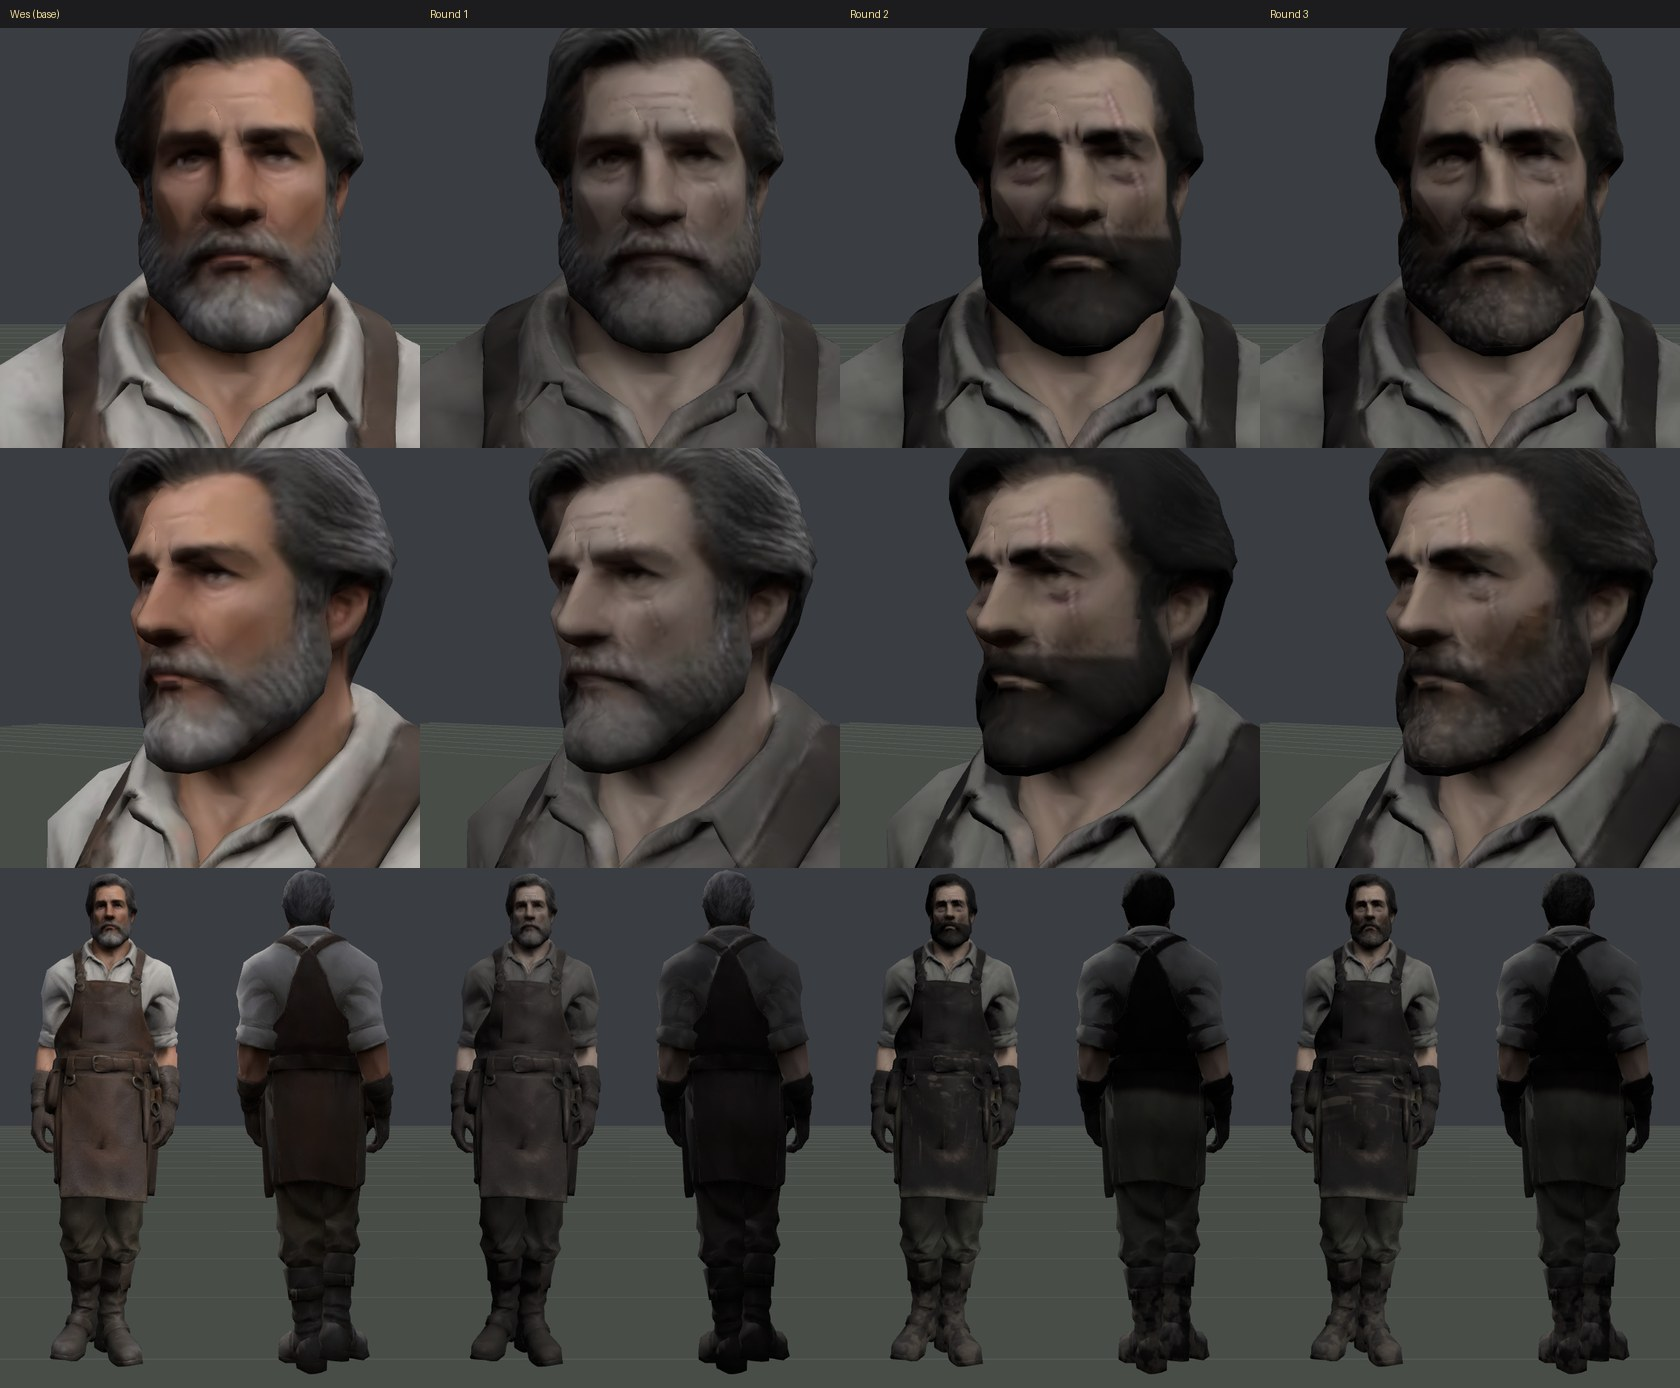
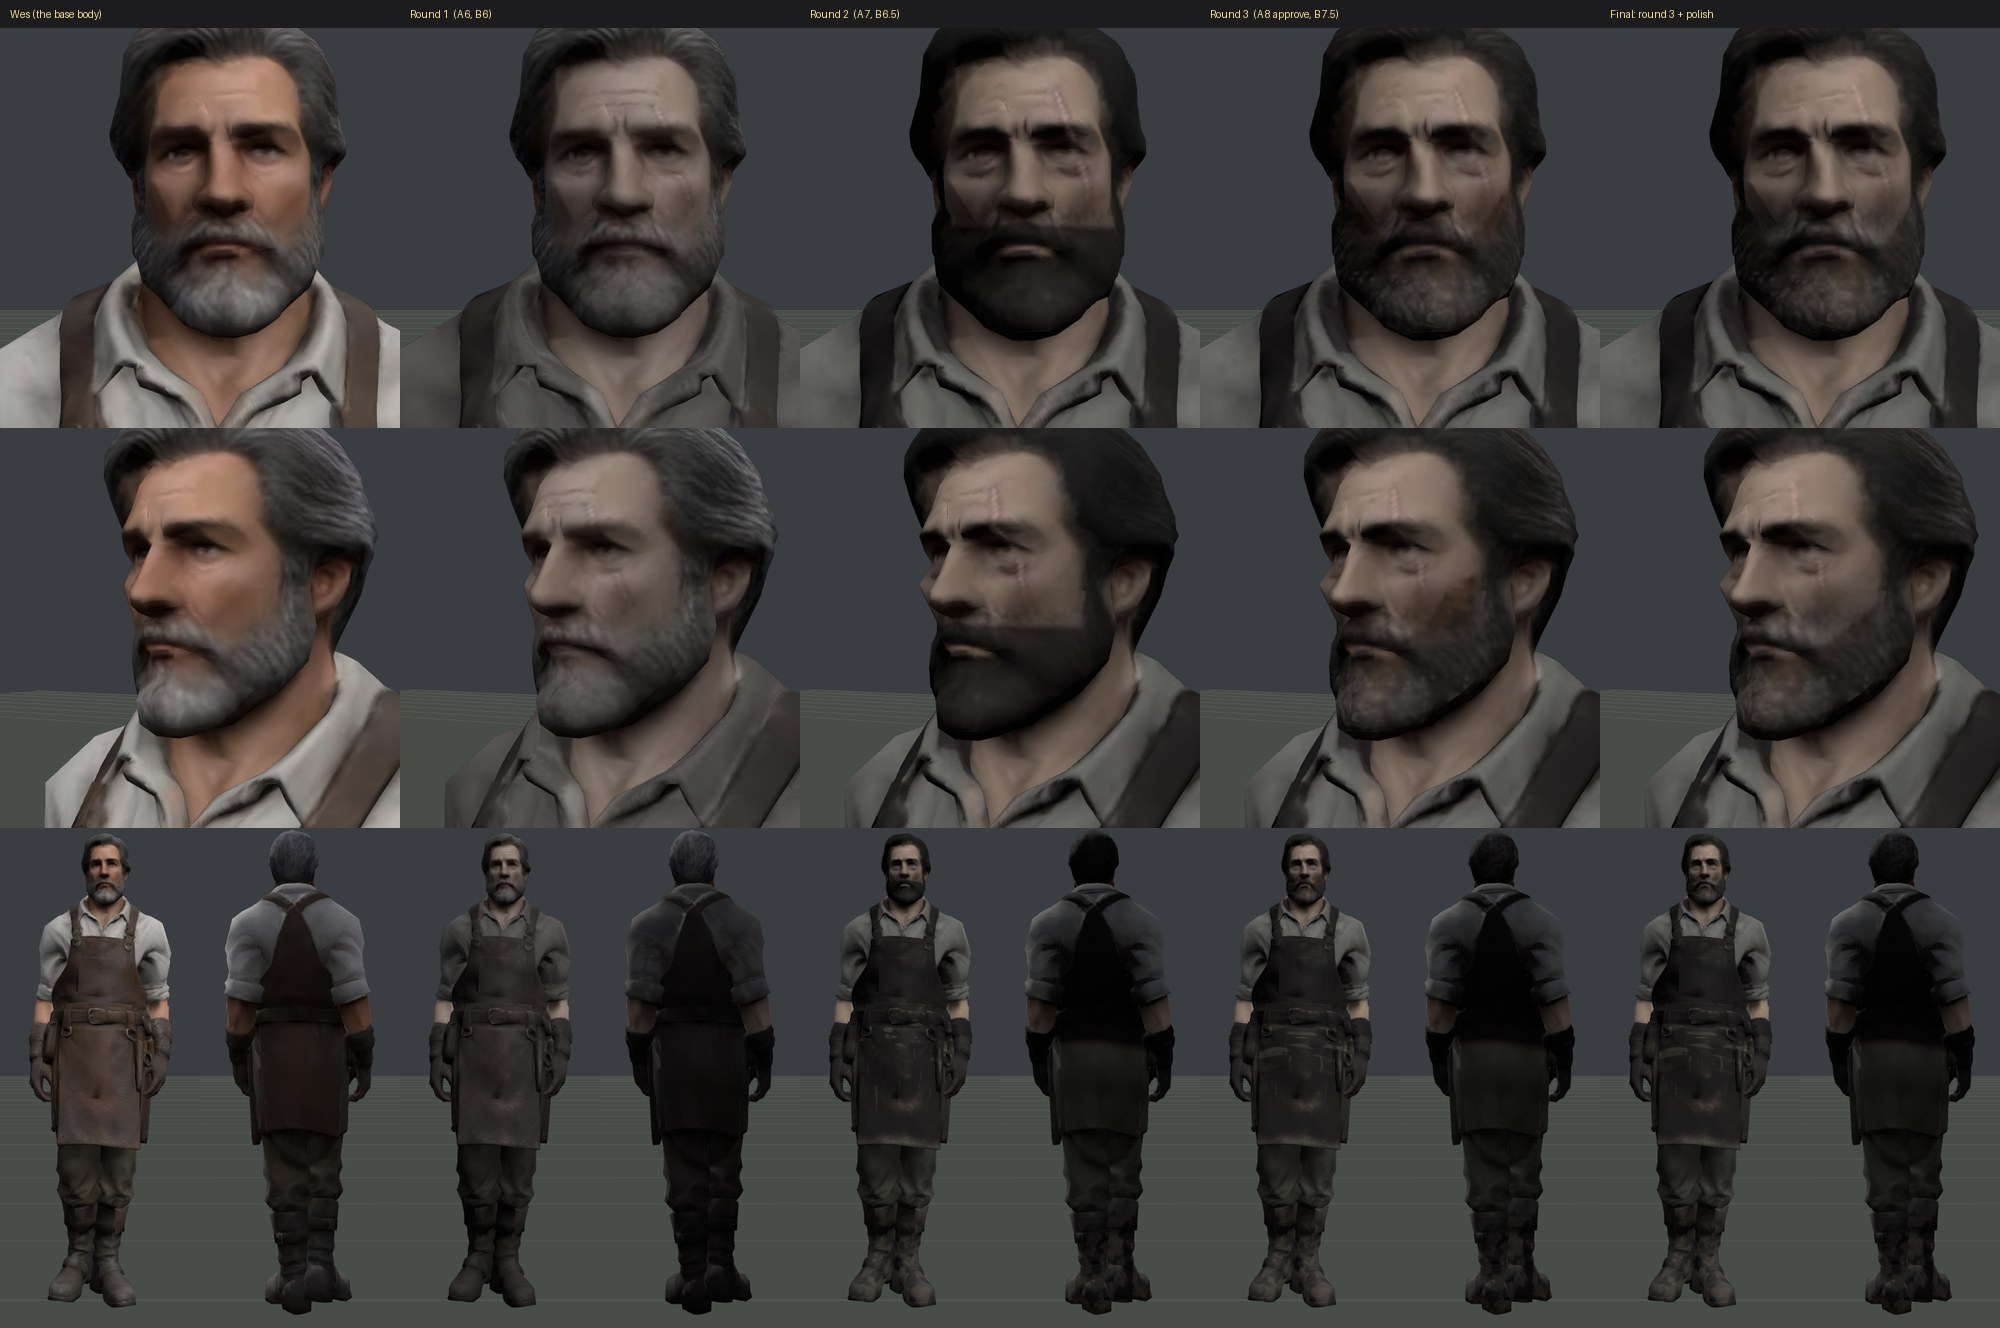
ph_tallow: the polish both critics asked for after round 3, and the tool written up
The cheek skin the beard line had taken painted as skin again (it was the rust-brown wedge);
the skin at the beard's edge greyed; the face marks' gates softened (their edges showed as
facets); the scar's rim faded in at its start. The sculpt gives every copy of a split vertex
one move (seams had opened) and unfolds flaps rather than closing them (closing left a hole).

Claude-Session: https://claude.ai/code/session_01YbmsD1HnEwDUrWv5TvmHtv

diff --git a/tools/phobos/grim_skin.py b/tools/phobos/grim_skin.py
@@ -26,7 +26,7 @@ nearest chart's point), and everything is a function of that point:
 `sculpt` in a skin moves the face itself: each move a soft blob in the front view (brow ridge forward and down,
 cheekbones out, cheeks in, the nose broken to one side, the jaw longer and wider), on the head bone's own skin only.
 It writes assets/game/folk/<id>.glb, the base body with those points moved and their normals turned to match (and
-any triangle folded over on the head closed); the
+any triangle folded over on the head unfolded); the
 skeleton, weights and UVs are the base's, so the rig, the clips, the normal and occlusion maps and the town's thread
 (which poses by the base's glb) all still fit. The swap names it as `glb`, and src/gfx/folk.js draws it in place of the
 base's mesh.
@@ -204,6 +204,10 @@ def blob(x, y, c, r, power=2):
     return np.exp(-(((x - c[0]) / r[0]) ** 2 + ((y - c[1]) / r[1]) ** 2) ** (power / 2))
 
 
+def stub_zone(x, y, F):
+    return smooth(-y, -(F["nose_y"] + 0.004), -(F["nose_y"] - 0.008)) * smooth(np.abs(x - F["mid"]), 0.022, 0.032)
+
+
 def eye_gate(x, y, F, rx=0.0135, ry=0.0062):
     """1 everywhere but on the eyes themselves (the lids and the eyeball), where marks must not go."""
     return (1 - blob(x, y, F["eye_r"], (rx, ry), 4)) * (1 - blob(x, y, F["eye_l"], (rx, ry), 4))
@@ -214,7 +218,8 @@ def face_marks(pos, nrm, hd, F, k):
     fold the normal map is to be cut with, for the lines that are folds rather than shading)."""
     x, y, z = pos[..., 0], pos[..., 1], pos[..., 2]
     cx = F["mid"]
-    front = smooth(nrm[..., 2], 0.05, 0.45) * smooth(hd, 0.3, 0.7) * smooth(z, F["front_z"] - 0.02, F["front_z"])
+    # (Soft: a narrow gate on depth or facing follows the mesh's triangles, and its edge showed as a hard facet.)
+    front = smooth(nrm[..., 2], -0.25, 0.5) * smooth(hd, 0.3, 0.7) * smooth(z, F["front_z"] - 0.06, F["front_z"] + 0.005)
     dark = np.zeros(x.shape); light = np.zeros(x.shape); brows = np.zeros(x.shape); crease = np.zeros(x.shape)
     for ex, ey in (F["eye_r"], F["eye_l"]):
         out = 1 if ex > cx else -1                       # +1: this eye's outer side is +x
@@ -284,7 +289,9 @@ def face_marks(pos, nrm, hd, F, k):
         sw = F.get("scar_w", 0.003)
         core = line(x, y, piece, sw) * eg
         scar = np.maximum(scar, core)
-        rim = np.clip(line(x, y, piece, sw * 1.7) * eg - core, 0, 1)
+        # (The rim fades in over the first stretch of the stroke: where the core tapers to its start, a rim either side
+        # of it read as two strokes.)
+        rim = np.clip(line(x, y, piece, sw * 1.7) * eg - core, 0, 1) * smooth(poly_dist(x, y, piece)[1], 0.08, 0.3)
         dark += rim * k["scar_rim"]
         # Where it crosses the brow it is a gap in the hair, wider than the scar, and the scar itself faint there, so
         # brow and scar never make a cross.
@@ -324,9 +331,49 @@ def sculpt(src, dst, F, moves, tex):
             if "z" in mv:                                # only the surface near this depth (a nose, not the cheek behind it)
                 w = w * np.exp(-((z - mv["z"]) / mv.get("zr", 0.02)) ** 2)
             d += w[:, None] * np.array([o * mv["d"][0], mv["d"][1], mv["d"][2]])
-    Q = P + d
-    # Normals: each vertex's own, turned by however much its welded neighbourhood's area-weighted normal turned.
+    # Every copy of a point (the atlas splits a vertex at each UV seam, and the copies differ in normal and colour, so in
+    # the gate) takes the copies' mean move, or the seams would open.
     key = np.unique(np.round(P / 1e-5).astype(np.int64), axis=0, return_inverse=True)[1].ravel()
+    acc = np.zeros((key.max() + 1, 3)); cnt = np.zeros(key.max() + 1)
+    np.add.at(acc, key, d); np.add.at(cnt, key, 1)
+    d = acc[key] / cnt[key, None]
+    Q = P + d
+    # Flaps: a triangle on the head turned against the surface round it (Tripo leaves the odd one folded over, and as
+    # the game draws people two-sided it shows as a dark nick: Wes's "scar" on his right brow was one). Each is
+    # unfolded: its corners drawn toward the mean of their neighbours till it faces the way the surface does. (Not
+    # deleted: that opens a hole, tools/phobos/README.md.)
+    from scipy.spatial import cKDTree
+    nbr = [set() for _ in range(key.max() + 1)]
+    for t in I:
+        ka, kb, kc = key[t]
+        nbr[ka].update((kb, kc)); nbr[kb].update((ka, kc)); nbr[kc].update((ka, kb))
+    kpos = np.zeros((key.max() + 1, 3)); kpos[key] = Q
+
+    def facing(t):
+        fc = Q[I].mean(1)
+        fn = np.cross(Q[I[:, 1]] - Q[I[:, 0]], Q[I[:, 2]] - Q[I[:, 0]])
+        return fc, fn
+
+    fc, fn = facing(None)
+    idx = np.nonzero((hw[I].mean(1) > 0.5) & (fc[:, 1] > 1.5))[0]
+    tree = cKDTree(fc[idx])
+    flaps = []
+    for t in idx:
+        near = idx[tree.query_ball_point(fc[t], 0.012)]
+        avg = fn[near].sum(0)
+        if np.dot(fn[t], avg) < -0.3 * np.linalg.norm(fn[t]) * np.linalg.norm(avg):
+            flaps.append((t, avg / np.linalg.norm(avg)))
+    for t, avg in flaps:
+        ks = key[I[t]]
+        for _ in range(200):
+            for k in ks:
+                kpos[k] = kpos[k] * 0.5 + np.mean([kpos[j] for j in nbr[k]], 0) * 0.5
+            a, b_, c = kpos[ks]
+            n_ = np.cross(b_ - a, c - a)
+            if np.dot(n_, avg) > 0.95 * np.linalg.norm(n_):
+                break
+        Q = kpos[key]
+    # Normals: each vertex's own, turned by however much its welded neighbourhood's area-weighted normal turned.
 
     def welded(V):
         fn = np.cross(V[I[:, 1]] - V[I[:, 0]], V[I[:, 2]] - V[I[:, 0]])
@@ -341,31 +388,10 @@ def sculpt(src, dst, F, moves, tex):
     N2[moved] = Nn[moved] + (n1[moved] - n0[moved])
     # (Across the face's front, where the mesh is coarsest, the welded smooth normal itself: the base's per-corner
     # normals shade its few big triangles in hard planes, more so once moved.)
-    sm = (gate * smooth(y, 1.53, 1.56))[:, None]
+    gk = np.zeros(key.max() + 1); np.add.at(gk, key, gate)
+    sm = (gk[key] / cnt[key] * smooth(y, 1.53, 1.56))[:, None]
     N2 = N2 * (1 - sm) + n1 * sm
     N2 /= np.maximum(np.linalg.norm(N2, axis=1, keepdims=True), 1e-9)
-    # Flaps: a triangle on the face turned against the surface round it (Tripo leaves the odd one folded over, and as
-    # the game draws people two-sided it shows as a dark nick: Wes's "scar" on his right brow was one). Each is made
-    # degenerate, all three corners its first, so it draws nothing; the surface under it is whole.
-    fc = Q[I].mean(1)
-    fn = np.cross(Q[I[:, 1]] - Q[I[:, 0]], Q[I[:, 2]] - Q[I[:, 0]])
-    on = (hw[I].mean(1) > 0.5) & (fc[:, 1] > 1.5)
-    idx = np.nonzero(on)[0]
-    from scipy.spatial import cKDTree
-    tree = cKDTree(fc[idx])
-    flaps = []
-    for j, t in enumerate(idx):
-        near = idx[tree.query_ball_point(fc[t], 0.012)]
-        avg = fn[near].sum(0)
-        if np.dot(fn[t], avg) < -0.3 * np.linalg.norm(fn[t]) * np.linalg.norm(avg):
-            flaps.append(t)
-    I2 = I.copy()
-    I2[flaps] = I2[flaps, :1]
-    ia = J["accessors"][pr["indices"]]
-    ibv = J["bufferViews"][ia["bufferView"]]
-    ioff = b0 + ibv.get("byteOffset", 0) + ia.get("byteOffset", 0)
-    idt = {5125: "<u4", 5123: "<u2"}[ia["componentType"]]
-    b[ioff:ioff + I2.size * np.dtype(idt).itemsize] = I2.astype(idt).tobytes()
     for attr, arr in (("POSITION", Q), ("NORMAL", N2)):
         a = J["accessors"][pr["attributes"][attr]]
         bv = J["bufferViews"][a["bufferView"]]
@@ -379,7 +405,7 @@ def sculpt(src, dst, F, moves, tex):
     out = bytearray(b[:12]) + struct.pack("<II", len(js), 0x4E4F534A) + js + b[20 + jl:]
     struct.pack_into("<I", out, 8, len(out))
     open(dst, "wb").write(out)
-    print(f"  sculpt: {moved.sum()} vertices moved, at most {np.linalg.norm(d, axis=1).max() * 1000:.1f} mm; {len(flaps)} flaps closed")
+    print(f"  sculpt: {moved.sum()} vertices moved, at most {np.linalg.norm(d, axis=1).max() * 1000:.1f} mm; {len(flaps)} flaps unfolded")
 
 
 def normals(src, dst, pos, depth, heal, cov):
@@ -425,7 +451,10 @@ def kinds(a, pos, nrm, hd, H, F):
         grows = smooth(-y, -top - B.get("feather", 0.005), -top + B.get("feather", 0.005)) * smooth(y, B["bottom"], B["bottom"] + 0.004) \
             * smooth(-np.abs(x - F["mid"]), -B["half"] - 0.004, -B["half"]) * smooth(nrm[..., 2], -0.4, 0.0) * smooth(z, 0.02, 0.04) * smooth(hd, 0.15, 0.35)
         lips = blob(x, y, (F["mid"] + B["lips"][0], B["lips"][1]), B["lips"][2:], 4)
-        beard = grows * (1 - lips) * smooth(-v, -0.75, -0.6)
+        # (Skin-coloured texels are beard only well under the line, where grey hairs lie over skin; just under it, only
+        # what is hair-coloured: the cheek skin there painted as hair came out a rust-brown wedge.)
+        deep = smooth(-y, -(top - 0.008), -(top - 0.016))
+        beard = grows * (1 - lips) * smooth(-v, -0.75, -0.6) * (1 - skin * (1 - deep))
         hair = np.maximum(hair, beard)
         skin = skin * (1 - beard)
     linen = (1 - skin) * (1 - on_head) * smooth(v, 0.5, 0.62) * smooth(-s, -0.24, -0.14)
@@ -466,7 +495,7 @@ def make(sid, spec, look_dir=None):
     S = spec["skin"]
     sk = restyle(a, K["skin"], S["to"], S.get("keep", 1.0))
     out = out * (1 - K["skin"][..., None]) + sk * K["skin"][..., None]
-    face = smooth(nrm[..., 2], 0.05, 0.45) * smooth(hd, 0.3, 0.7) * smooth(z, F["front_z"] - 0.02, F["front_z"])
+    face = smooth(nrm[..., 2], -0.25, 0.5) * smooth(hd, 0.3, 0.7) * smooth(z, F["front_z"] - 0.06, F["front_z"] + 0.005)
     # The base's own marks healed: over each patch (any way the skin faces), whatever is darker than the skin's mean
     # there is lifted to it, so a scar's line goes and the skin's own lighter grain stays.
     heal = np.zeros(x.shape)
@@ -508,8 +537,14 @@ def make(sid, spec, look_dir=None):
     out = out * (1 - br[..., None] * k["brows"]) + np.array(k["brow_col"]) * (0.7 + 0.6 * fbm(pos, 0.0015, 81, 2))[..., None] * br[..., None] * k["brows"]
     out = out * (1 - dk[..., None] * (1 - np.array(k["shadow_col"])))
     out = out + (1 - out) * lt[..., None] * 0.3
+    # Where the beard thins into skin (and the stubble above it), the skin's warmth goes grey: half hair over sallow
+    # skin otherwise came out a rust-brown smear.
+    if F.get("beard"):
+        fringe = np.clip(K["hair"] * (1 - K["hair"]) * 4, 0, 1) * face + stub_zone(x, y, F) * face * K["skin"] * 0.6
+        g = out.mean(-1, keepdims=True)
+        out = out * (1 - fringe[..., None] * 0.6) + g * np.array([1.03, 1.0, 0.97]) * fringe[..., None] * 0.6
     # Stubble on the cheeks above the beard: fine dark grain, thinning upward.
-    stub = smooth(-y, -(F["nose_y"] + 0.004), -(F["nose_y"] - 0.008)) * smooth(np.abs(x - F["mid"]), 0.022, 0.032) * face * K["skin"]
+    stub = stub_zone(x, y, F) * face * K["skin"]
     grain = 0.35 + 0.65 * smooth(noise3(pos, 0.0007, 91), 0.45, 0.65)
     out = out * (1 - (stub * grain * k["stubble"])[..., None] * 0.55)
     # Broken veins on the nose and the cheekbones' tops: a faint mottled red.

diff --git a/tools/phobos/README.md b/tools/phobos/README.md
@@ -44,3 +44,24 @@ there. Wait about 7 s after a move for the land to be laid. `bm.firstSight(t)` p
 Traps: files here are a mix of LF and CRLF, so a patch script must match the file's own line ends; anything stood in
 `K.spots` must be standable (tests/sites-clear); nothing with a collider on a road; lairs need `lvl` or
 `tools/autoplay/check.mjs` fails; a new country needs `COUNTRY_FACTIONS` and `COUNTRY_TEARS`.
+
+## Grim skins: a different man in a townsperson's body
+
+`python tools/phobos/grim_skin.py [ids] [--look DIR]` makes Phobos people out of the townsfolk's Tripo bodies, by the
+recipes in `grim_skins.json` (the first: `ph_tallow`, Mordo Grisk the tallow-boiler, on Wes's body). Plain Python
+(NumPy, SciPy, Pillow); no Blender. Each texel of the base's colour map is given the point of the body it paints, so
+everything is placed on the body, not in the atlas: what each texel is (skin, hair and beard, linen, apron, trousers,
+boots, gloves), each kind's new value and colour, soot, tallow and mud in 3D noise, and the face's marks from the
+body's landmarks (`faces`). A recipe with `sculpt` also writes `<id>.glb`: the base body with the face's points moved
+(brow, cheekbones, cheeks, nose, jaw); one with `normals` its own `<id>_n.webp` with the folds cut in. The swap in
+`assets/game/folk/folk.json` names them (`glb`, `n`), and `src/gfx/folk.js` draws them in place of the base's. The
+town's thread still poses by the base's glb: the skeleton and weights are the same.
+
+- Landmarks: `tools/folk/viewer.html?flat&normals=0` draws a body unlit and unfiltered, so a probe texture whose
+  colours are its own texel coordinates tells you which texels lie under any pixel.
+- A face here is about 2.6-3.3 mm of skin a texel, and about 340 vertices: marks under ~6 mm smear, and a narrow gate
+  on depth or facing shows as a facet. Keep marks broad and gates soft.
+- Tripo leaves the odd triangle folded over on a head; drawn two-sided it's a dark nick (Wes's forehead "scar" is one,
+  and is still on Wes himself). The sculpt unfolds any on the head, and gives every copy of a split vertex the same
+  move, so no seam opens: the glb has as many open edges as its base.
+- Reviews: `art/phobos/review/ph_tallow_rounds.jpg` (the three critic rounds beside Wes) and `ph_tallow_final.jpg`.
